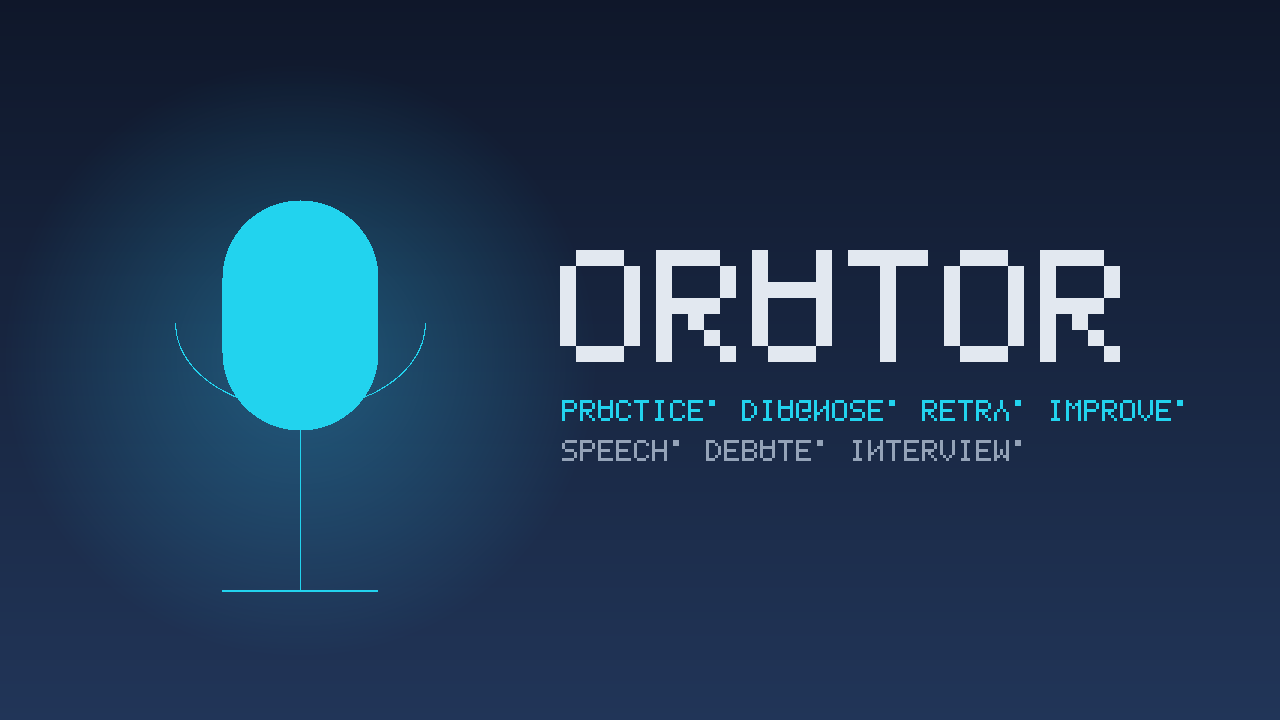
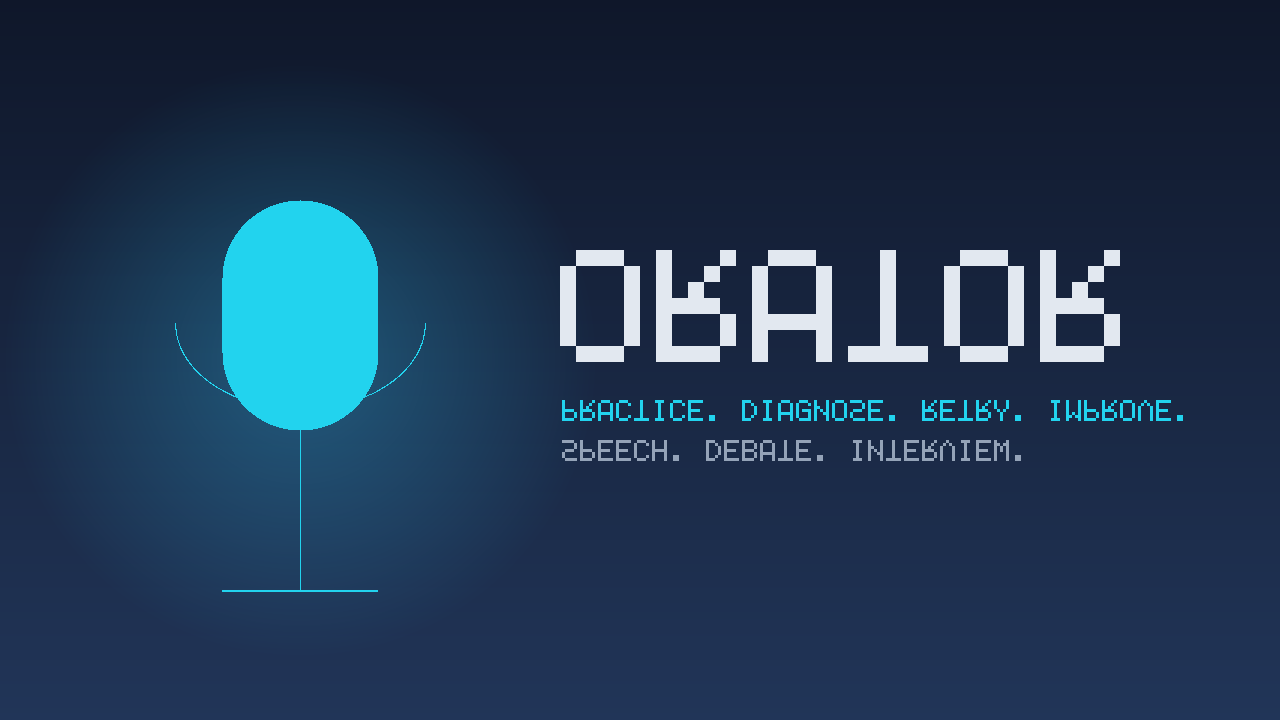
Fix upside-down cover font + live face overlay and detection readout

diff --git a/m0-voice-coach/public/script.js b/m0-voice-coach/public/script.js
@@ -379,10 +379,13 @@ let attemptVisualObs = [];
 // ---- Opt-in camera: on-device landmark measurement per attempt ----
 cameraToggleBtn.addEventListener('click', async () => {
   if (cameraStream) {
+    stopOverlayLoop();
     cameraStream.getTracks().forEach((t) => t.stop());
     cameraStream = null;
     cameraPreview.srcObject = null;
     cameraPreview.hidden = true;
+    faceOverlay.hidden = true;
+    faceStatusEl.textContent = '';
     cameraToggleBtn.textContent = 'Enable camera';
     log('Camera off');
     return;
@@ -411,7 +414,11 @@ cameraToggleBtn.addEventListener('click', async () => {
     // Load measurement models in the background; transcript coaching works
     // with or without them.
     ensureEstimator().then(
-      () => { cameraHintEl.textContent = 'Camera on — on-device measurement ready.'; log('Vision models loaded'); },
+      () => {
+        cameraHintEl.textContent = 'Camera on — on-device measurement ready.';
+        log('Vision models loaded');
+        startOverlayLoop();
+      },
       (e) => { cameraHintEl.textContent = 'Camera on, measurement unavailable (model download failed) — speech coaching unaffected.'; log('Estimator load failed: ' + e.message); }
     );
   } catch (e) {
@@ -419,6 +426,47 @@ cameraToggleBtn.addEventListener('click', async () => {
     log('Camera error: ' + e.message);
   }
 });
+
+// Live face overlay: every ~800 ms while the camera is on, run detection
+// on the preview, draw landmark dots, and report the reading. This is the
+// visible proof of what the detector sees — if dots track your face, the
+// pipeline works; if nothing ever appears, detection truly fails here.
+function stopOverlayLoop() {
+  if (overlayTimer) { clearInterval(overlayTimer); overlayTimer = null; }
+  try {
+    const g = faceOverlay.getContext('2d');
+    g.clearRect(0, 0, faceOverlay.width, faceOverlay.height);
+  } catch (e) { /* ignore */ }
+}
+
+function startOverlayLoop() {
+  stopOverlayLoop();
+  faceOverlay.hidden = false;
+  overlayTimer = setInterval(async () => {
+    if (!cameraStream) { stopOverlayLoop(); return; }
+    try {
+      const lm = await estimateVideo(cameraPreview);
+      const w = cameraPreview.clientWidth || 160;
+      const h = cameraPreview.clientHeight || 120;
+      faceOverlay.width = w;
+      faceOverlay.height = h;
+      const g = faceOverlay.getContext('2d');
+      g.clearRect(0, 0, w, h);
+      if (!lm) {
+        faceStatusEl.textContent = 'Face: not detected — move into frame and light your face.';
+        return;
+      }
+      for (const p of lm) {
+        g.fillStyle = '#22d3ee';
+        g.fillRect(p.x * w - 1, p.y * h - 1, 2, 2);
+      }
+      const obs = faceObservation(lm);
+      faceStatusEl.textContent = 'Face: yes · gaze ' + obs.yaw + '/' + obs.pitch + ' · eyes ' + (obs.eyesOpen ? 'open' : 'closed');
+    } catch (e) {
+      faceStatusEl.textContent = 'Detection error: ' + e.message;
+    }
+  }, 800);
+}
 
 // Measure the live preview frame. Async (model inference); null when the
 // camera is off, unusable, or models failed to load. Never throws.

diff --git a/m0-voice-coach/public/index.html b/m0-voice-coach/public/index.html
@@ -87,7 +87,11 @@
         <button id="cameraToggleBtn" class="btn btn-small">Enable camera</button>
         <button id="visionTestBtn" class="btn btn-small">Test vision pipeline</button>
       </div>
-      <video id="cameraPreview" muted playsinline hidden width="160"></video>
+      <div class="cam-wrap">
+        <video id="cameraPreview" muted playsinline hidden width="160"></video>
+        <canvas id="faceOverlay" hidden></canvas>
+      </div>
+      <div id="faceStatus" class="hint"></div>
       <div id="cameraHint" class="hint">Optional camera: face measurements per attempt are analyzed on-device, then discarded — never stored.</div>
       <div id="visionTestHint" class="hint"></div>
       <div id="attemptHint" class="hint">Connect, then press “Start attempt” and speak.</div>

diff --git a/m0-voice-coach/public/style.css b/m0-voice-coach/public/style.css
@@ -158,6 +158,9 @@ h1 .mode-label { -webkit-text-fill-color: #22d3ee; }
 }
 #welcomePanel { border-color: rgba(34,211,238,0.25); }
 #cameraPreview { border-radius: 0.5rem; border: 1px solid rgba(255,255,255,0.08); margin-top: 0.5rem; }
+.cam-wrap { position: relative; display: inline-block; margin-top: 0.5rem; }
+.cam-wrap #cameraPreview { margin-top: 0; }
+#faceOverlay { position: absolute; inset: 0; width: 100%; height: 100%; pointer-events: none; }
 /* Coach Engine selector */
 .engine-row { align-items: center; }
 .engine-label { font-size: 0.78rem; text-transform: uppercase; letter-spacing: 0.05em; color: #94a3b8; font-weight: 700; }

diff --git a/m0-voice-coach/scripts/make-cover.js b/m0-voice-coach/scripts/make-cover.js
@@ -46,9 +46,10 @@ function text(str, x, y, scale, color) {
     const g = F[ch] || F[' '];
     for (let col = 0; col < 5; col++)
       for (let row = 0; row < 7; row++)
+        // bit 0 is the TOP row in this font: map rows straight down.
         if (g[col] & (1 << row))
           for (let dy = 0; dy < scale; dy++)
-            for (let dx = 0; dx < scale; dx++) px(cxp + col * scale + dx, y + (6 - row) * scale + dy, color);
+            for (let dx = 0; dx < scale; dx++) px(cxp + col * scale + dx, y + row * scale + dy, color);
     cxp += 6 * scale;
   }
   return cxp;
